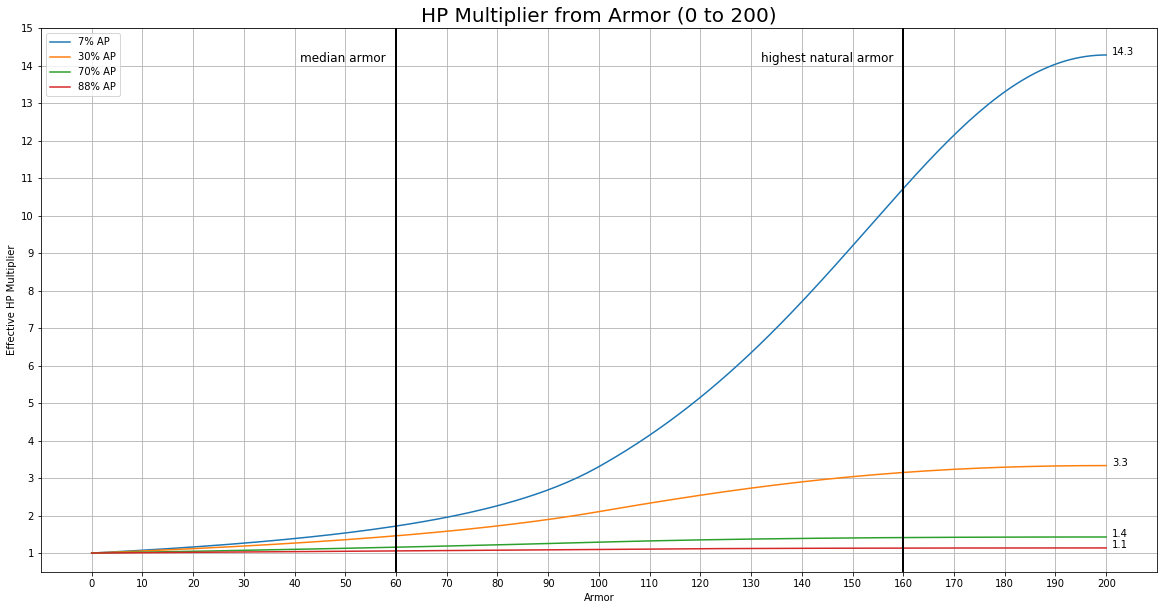
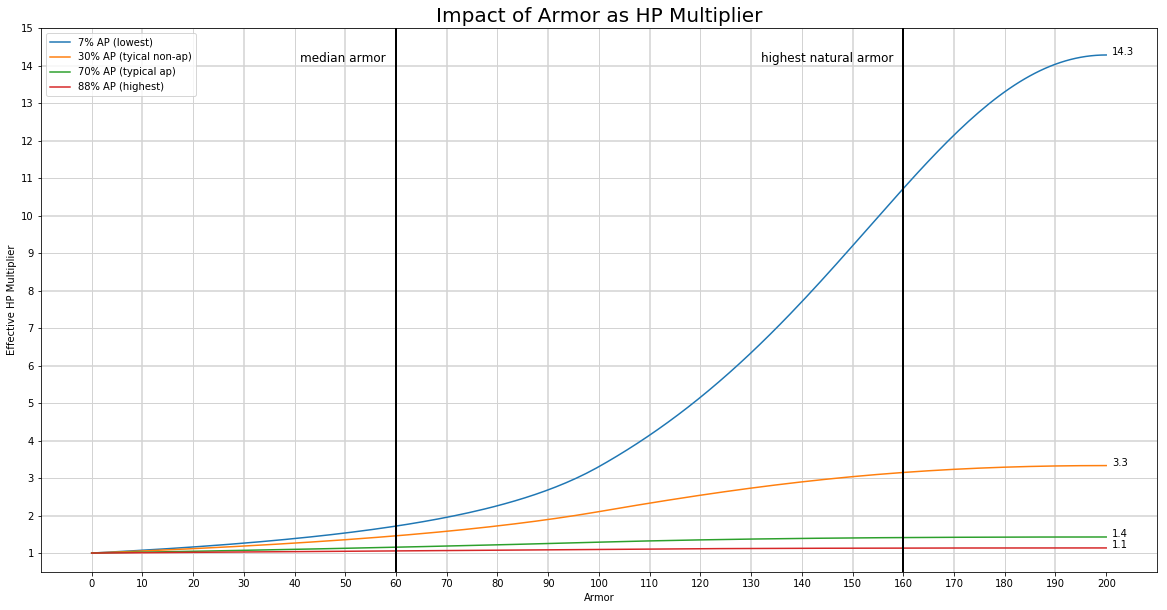
Nicer Armor Graph

diff --git a/WarhammerArmor.py b/WarhammerArmor.py
@@ -1,14 +1,31 @@
 import numpy as np
 import matplotlib.pyplot as plt
 from UtilityFunctions import average_damage_with_armor_ratio
-
+import pickle
 
 # Defaults armor is max allowed
 # Default ap_fractions are the lowest, the two typical, and highest ap_fractions in the
 # game
-def armor_graph(max_armor=200,ap_fractions=[.07,.3,.7,.88],armor_lines=[60,160]):
+unitsDF = pickle.load( open( "unitsDF.p", "rb" ) )
+
+def armor_graph():
     
-    legend_names = [f"{int(i*100)}% AP" for i in ap_fractions]
+    max_armor = 200
+    
+    max_nat_armor = max(unitsDF["armour"])
+    med_armor = np.nanmedian(unitsDF["armour"])
+    
+    min_ap = min(unitsDF["melee_ap_ratio"])
+    max_ap = max(unitsDF["melee_ap_ratio"])
+    med_hi_ap = np.nanmedian(unitsDF[unitsDF["melee_ap_ratio"] > .5]["melee_ap_ratio"])
+    med_lo_ap = np.nanmedian(unitsDF[unitsDF["melee_ap_ratio"] < .5]["melee_ap_ratio"])
+    
+    ap_fractions = [min_ap,med_lo_ap,med_hi_ap,max_ap]
+    
+    armor_lines = [med_armor,max_nat_armor]
+    
+    legend_descriptions = ["(lowest)","(tyical non-ap)","(typical ap)","(highest)"]
+    legend_names = [f"{int(val*100)}% AP {des}" for val,des in zip(ap_fractions,legend_descriptions)]
     armor = np.linspace(0,max_armor,200)
     x_ticks = [i*10 for i in range(0,21)]
     y_ticks = [i for i in range(0,21)]
@@ -27,38 +44,33 @@ def armor_graph(max_armor=200,ap_fractions=[.07,.3,.7,.88],armor_lines=[60,160])
     plt.xlabel("Armor")
     plt.ylabel("Effective HP Multiplier")
     
-    plt.grid()
+    for xmaj in np.arange(0,200,20):
+        plt.axvline(x=xmaj,color='lightgrey',linewidth=1,zorder=-5)
+        
+    for xmaj in np.arange(10,200,20):
+        plt.axvline(x=xmaj,color='lightgrey',linewidth=1.5,zorder=-5)
+        
+    for ymaj in np.arange(1,20,2):
+        plt.axhline(y=ymaj,color='lightgrey',linewidth=1,zorder=-5)
+        
+    for ymaj in np.arange(2,20,2):
+        plt.axhline(y=ymaj,color='lightgrey',linewidth=1.5,zorder=-5)
+
     plt.legend(legend_names)
     plt.xticks(x_ticks)
     plt.yticks(y_ticks)
     
     plt.ylim([1-max_armor/400,min(max(upper_lims)+1, 15)])
     plt.xlim([-max_armor/20,max_armor+max_armor/20])
-    plt.title(f"HP Multiplier from Armor (0 to {max_armor})",size=20)
+    plt.title(f"Impact of Armor as HP Multiplier",size=20)
     
     for vertical in armor_lines:
         plt.axvline(vertical,color='black',linewidth=2)
 
-
+    plt.annotate("median armor",[med_armor-19,14.1],size=12)
+    plt.annotate("highest natural armor",[max_nat_armor-28,14.1],size=12)
 
 
 if __name__ == '__main__':
     armor_graph()
-    plt.annotate("median armor",[41,14.1],size=12)
-    plt.annotate("highest natural armor",[132,14.1],size=12)
     
-    import pickle
-    print("To keep this up to date check the values used")
-    unitsDF = pickle.load( open( "unitsDF.p", "rb" ) )
-    
-    
-    max_armor = max(unitsDF["armour"])
-    med_armor = np.nanmedian(unitsDF["armour"])
-    
-    min_ap = min(unitsDF["melee_ap_ratio"])
-    max_ap = max(unitsDF["melee_ap_ratio"])
-    med_hi_ap = np.nanmedian(unitsDF[unitsDF["melee_ap_ratio"] > .5]["melee_ap_ratio"])
-    med_lo_ap = np.nanmedian(unitsDF[unitsDF["melee_ap_ratio"] < .5]["melee_ap_ratio"])
-    
-    print(f"Median Armor: {med_armor}\nMax Armor: {max_armor}")
-    print(f"Min AP: {min_ap}\nMax AP: {max_ap}\nHigh AP: {med_hi_ap}\nLow AP: {med_lo_ap}")

diff --git a/UtilityFunctions.py b/UtilityFunctions.py
@@ -122,7 +122,9 @@ def all_with_attribute(units,attribute):
             has_attribute.append(False)
     return units[has_attribute]
 
-
+def all_from_faction(units,faction_group):
+    faction = units["faction_group"] == faction_group
+    return units[faction]
 
 
 
